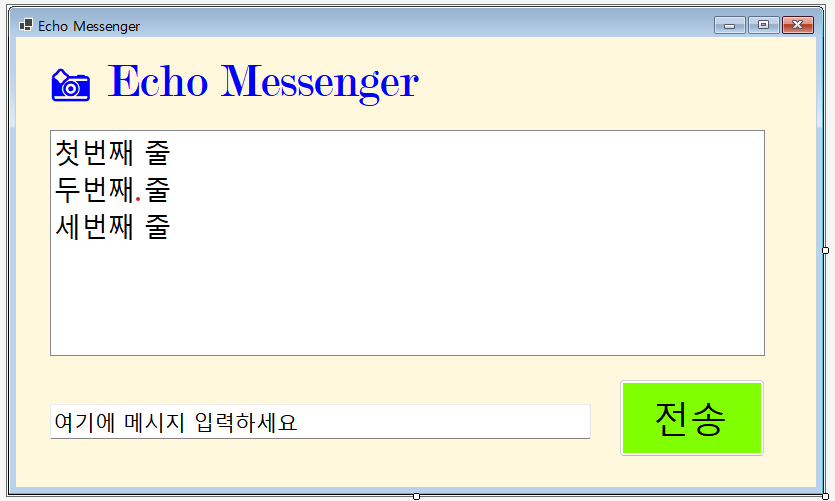
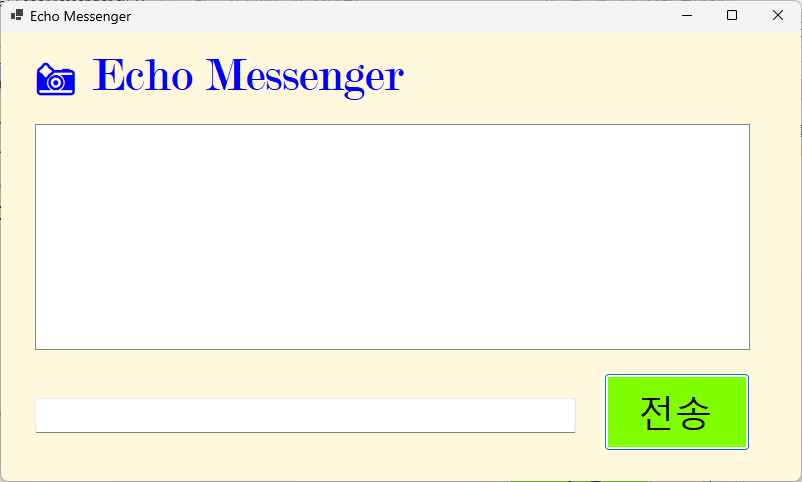
feat: 리스트 박스의 대화 기록 삭제 기능 구현 리스트 박스의 대화 기록 중 선택된 항목만 지우는 기능과 전체 대회를 모두 삭제하는 기능 구현

Changed region(s): [[0.0, 0.0, 1.0, 1.0]]

diff --git a/Form1.cs b/Form1.cs
@@ -16,6 +16,38 @@ namespace EchoMessenger
             SendMessage();
         }
 
+        private void btnDeleteSelected_Click(object sender, EventArgs e)
+        {
+            // 선택된 항목만 삭제
+            int idx = listBox1.SelectedIndex;
+            if (idx >= 0 && idx < listBox1.Items.Count)
+            {
+                listBox1.Items.RemoveAt(idx);
+                UpdateMessageCount();
+            }
+            else
+            {
+                MessageBox.Show("삭제할 항목을 선택하세요.", "알림", MessageBoxButtons.OK, MessageBoxIcon.Information);
+            }
+        }
+
+        private void btnDelHistory_Click(object sender, EventArgs e)
+        {
+            // 전체 초기화
+            if (listBox1.Items.Count == 0)
+            {
+                MessageBox.Show("삭제할 대화 기록이 없습니다.", "알림", MessageBoxButtons.OK, MessageBoxIcon.Information);
+                return;
+            }
+
+            var res = MessageBox.Show("모든 대화 기록을 삭제하시겠습니까?", "확인", MessageBoxButtons.YesNo, MessageBoxIcon.Question);
+            if (res == DialogResult.Yes)
+            {
+                listBox1.Items.Clear();
+                UpdateMessageCount();
+            }
+        }
+
         private void listBox1_SelectedIndexChanged(object sender, EventArgs e)
         {
 
@@ -23,10 +55,44 @@ namespace EchoMessenger
 
         private void textBox1_KeyDown(object sender, KeyEventArgs e)
         {
+            // Enter로 전송
             if (e.KeyCode == Keys.Enter)
             {
                 e.SuppressKeyPress = true; // Enter 키의 기본 동작(빕 소리) 방지
                 SendMessage();
+                return;
+            }
+
+            // Ctrl+V(붙여넣기) 처리: 허용 글자수를 넘길 경우 잘라서 붙여넣고 경고 표시
+            if (e.Control && e.KeyCode == Keys.V)
+            {
+                e.SuppressKeyPress = true; // 기본 붙여넣기 방지
+                IDataObject data = Clipboard.GetDataObject();
+                if (data != null && data.GetDataPresent(DataFormats.Text))
+                {
+                    string clip = (string)data.GetData(DataFormats.Text) ?? string.Empty;
+                    int selStart = textBox1.SelectionStart;
+                    int selLen = textBox1.SelectionLength;
+                    int currentLen = textBox1.Text.Length - selLen; // 선택 영역은 대체되므로 빼줌
+                    int allowed = textBox1.MaxLength - currentLen;
+                    if (allowed <= 0)
+                    {
+                        MessageBox.Show("입력은 최대 50자까지 허용됩니다.", "경고", MessageBoxButtons.OK, MessageBoxIcon.Warning);
+                        return;
+                    }
+
+                    string toInsert = clip.Length > allowed ? clip.Substring(0, allowed) : clip;
+                    string newText = textBox1.Text.Substring(0, selStart) + toInsert + textBox1.Text.Substring(selStart + selLen);
+                    textBox1.Text = newText;
+                    textBox1.SelectionStart = selStart + toInsert.Length;
+
+                    if (clip.Length > allowed)
+                    {
+                        MessageBox.Show("입력은 최대 50자입니다. 초과된 부분은 잘려 저장됩니다.", "경고", MessageBoxButtons.OK, MessageBoxIcon.Warning);
+                    }
+                }
+
+                return;
             }
         }
 
@@ -34,9 +100,17 @@ namespace EchoMessenger
         {
             // 앞뒤 불필요한 공백 제거
             string typed_msg = textBox1.Text?.Trim() ?? string.Empty;
+
             if (typed_msg.Length == 0)
             {
                 // 빈 문자열(또는 공백만)인 경우 전송 방지
+                return;
+            }
+
+            // 안전: 길이 초과 검사 (MaxLength가 있더라도 방어적 체크)
+            if (typed_msg.Length > 50)
+            {
+                MessageBox.Show("메시지는 최대 50자까지 전송할 수 있습니다.", "경고", MessageBoxButtons.OK, MessageBoxIcon.Warning);
                 return;
             }
 

diff --git a/Form1.Designer.cs b/Form1.Designer.cs
@@ -33,15 +33,17 @@
             label1 = new Label();
             textBox1 = new TextBox();
             labelCount = new Label();
+            btnDelHistory = new Button();
+            btnDeleteSelected = new Button();
             SuspendLayout();
             // 
             // btnSend
             // 
             btnSend.BackColor = Color.Chartreuse;
             btnSend.Font = new Font("맑은 고딕", 27.75F, FontStyle.Regular, GraphicsUnit.Point, 129);
-            btnSend.Location = new Point(603, 342);
+            btnSend.Location = new Point(603, 374);
             btnSend.Name = "btnSend";
-            btnSend.Size = new Size(146, 78);
+            btnSend.Size = new Size(146, 53);
             btnSend.TabIndex = 0;
             btnSend.Text = "전송";
             btnSend.UseVisualStyleBackColor = false;
@@ -71,20 +73,47 @@
             // textBox1
             // 
             textBox1.Font = new Font("맑은 고딕", 15.75F, FontStyle.Regular, GraphicsUnit.Point, 129);
-            textBox1.Location = new Point(34, 367);
+            textBox1.Location = new Point(34, 374);
+            textBox1.MaxLength = 50;
             textBox1.Name = "textBox1";
-            textBox1.Size = new Size(541, 35);
+            textBox1.Size = new Size(550, 35);
             textBox1.TabIndex = 4;
+            textBox1.KeyDown += textBox1_KeyDown;
             // 
             // labelCount
             // 
             labelCount.AutoSize = true;
             labelCount.Font = new Font("맑은 고딕", 15.75F, FontStyle.Regular, GraphicsUnit.Point, 129);
-            labelCount.Location = new Point(592, 48);
+            labelCount.Location = new Point(581, 14);
             labelCount.Name = "labelCount";
             labelCount.Size = new Size(128, 30);
             labelCount.TabIndex = 5;
             labelCount.Text = "메시지 수: 0";
+            // 
+            // btnDelHistory
+            // 
+            btnDelHistory.BackColor = Color.NavajoWhite;
+            btnDelHistory.Font = new Font("맑은 고딕", 15.75F, FontStyle.Regular, GraphicsUnit.Point, 129);
+            btnDelHistory.Location = new Point(581, 49);
+            btnDelHistory.Name = "btnDelHistory";
+            btnDelHistory.Size = new Size(168, 36);
+            btnDelHistory.TabIndex = 6;
+            btnDelHistory.Text = "대화 기록 삭제";
+            btnDelHistory.TextAlign = ContentAlignment.MiddleLeft;
+            btnDelHistory.UseVisualStyleBackColor = false;
+            btnDelHistory.Click += btnDelHistory_Click;
+            // 
+            // btnDeleteSelected
+            // 
+            btnDeleteSelected.BackColor = Color.LightCoral;
+            btnDeleteSelected.Font = new Font("맑은 고딕", 12F, FontStyle.Regular, GraphicsUnit.Point, 129);
+            btnDeleteSelected.Location = new Point(603, 326);
+            btnDeleteSelected.Name = "btnDeleteSelected";
+            btnDeleteSelected.Size = new Size(146, 42);
+            btnDeleteSelected.TabIndex = 7;
+            btnDeleteSelected.Text = "삭제";
+            btnDeleteSelected.UseVisualStyleBackColor = false;
+            btnDeleteSelected.Click += btnDeleteSelected_Click;
             // 
             // Form1
             // 
@@ -93,6 +122,8 @@
             AutoScaleMode = AutoScaleMode.Font;
             BackColor = Color.Cornsilk;
             ClientSize = new Size(800, 450);
+            Controls.Add(btnDeleteSelected);
+            Controls.Add(btnDelHistory);
             Controls.Add(labelCount);
             Controls.Add(textBox1);
             Controls.Add(label1);
@@ -111,5 +142,7 @@
         private Label label1;
         private TextBox textBox1;
         private Label labelCount;
+        private Button btnDelHistory;
+        private Button btnDeleteSelected;
     }
 }

diff --git a/README.md b/README.md
@@ -54,5 +54,20 @@
   - 메시지 카운팅. 현재 리스트에 쌓인 총 메시지 개수를 계산하여 하단 Label에 실시간으로 업데이트 한다. 
   - 문자열 정제. 사용자가 입력한 메시지의 앞뒤 불필요한 공백을 Trim() 함수로 제거하여 저장한다.
     
+## 실행 화면 (과제4)
+과제4 코드의 실행 스크린샷
 
+![과제4 실행화면](img/screenshot-4.png)
+
+![과제4 실행화면](img/screenshot-5.png)
+
+![과제4 실행화면](img/screenshot-6.png)
+
+- 과제 내용
+  - 리스트 박스의 아이템 제어 및 시스템 연동
+
+- 구현 내용과 기능 설명
+  - 선택 항목 삭제. ListBox에서 특정 메시지를 마우스로 클릭하고 '삭제' 버튼을 누르면 해당 항목만 목록에서 제거한다.
+  - 전체 초기화. '대화 기록 삭제' 버튼을 클릭하면 리스트의 모든 내용을 한 번에 지운다.
+  - 글자 수 제한. 입력창에 글자 수를 50자로 제한하고, 초과시 사용자에게 경고 메시지를 띄운다.
   
